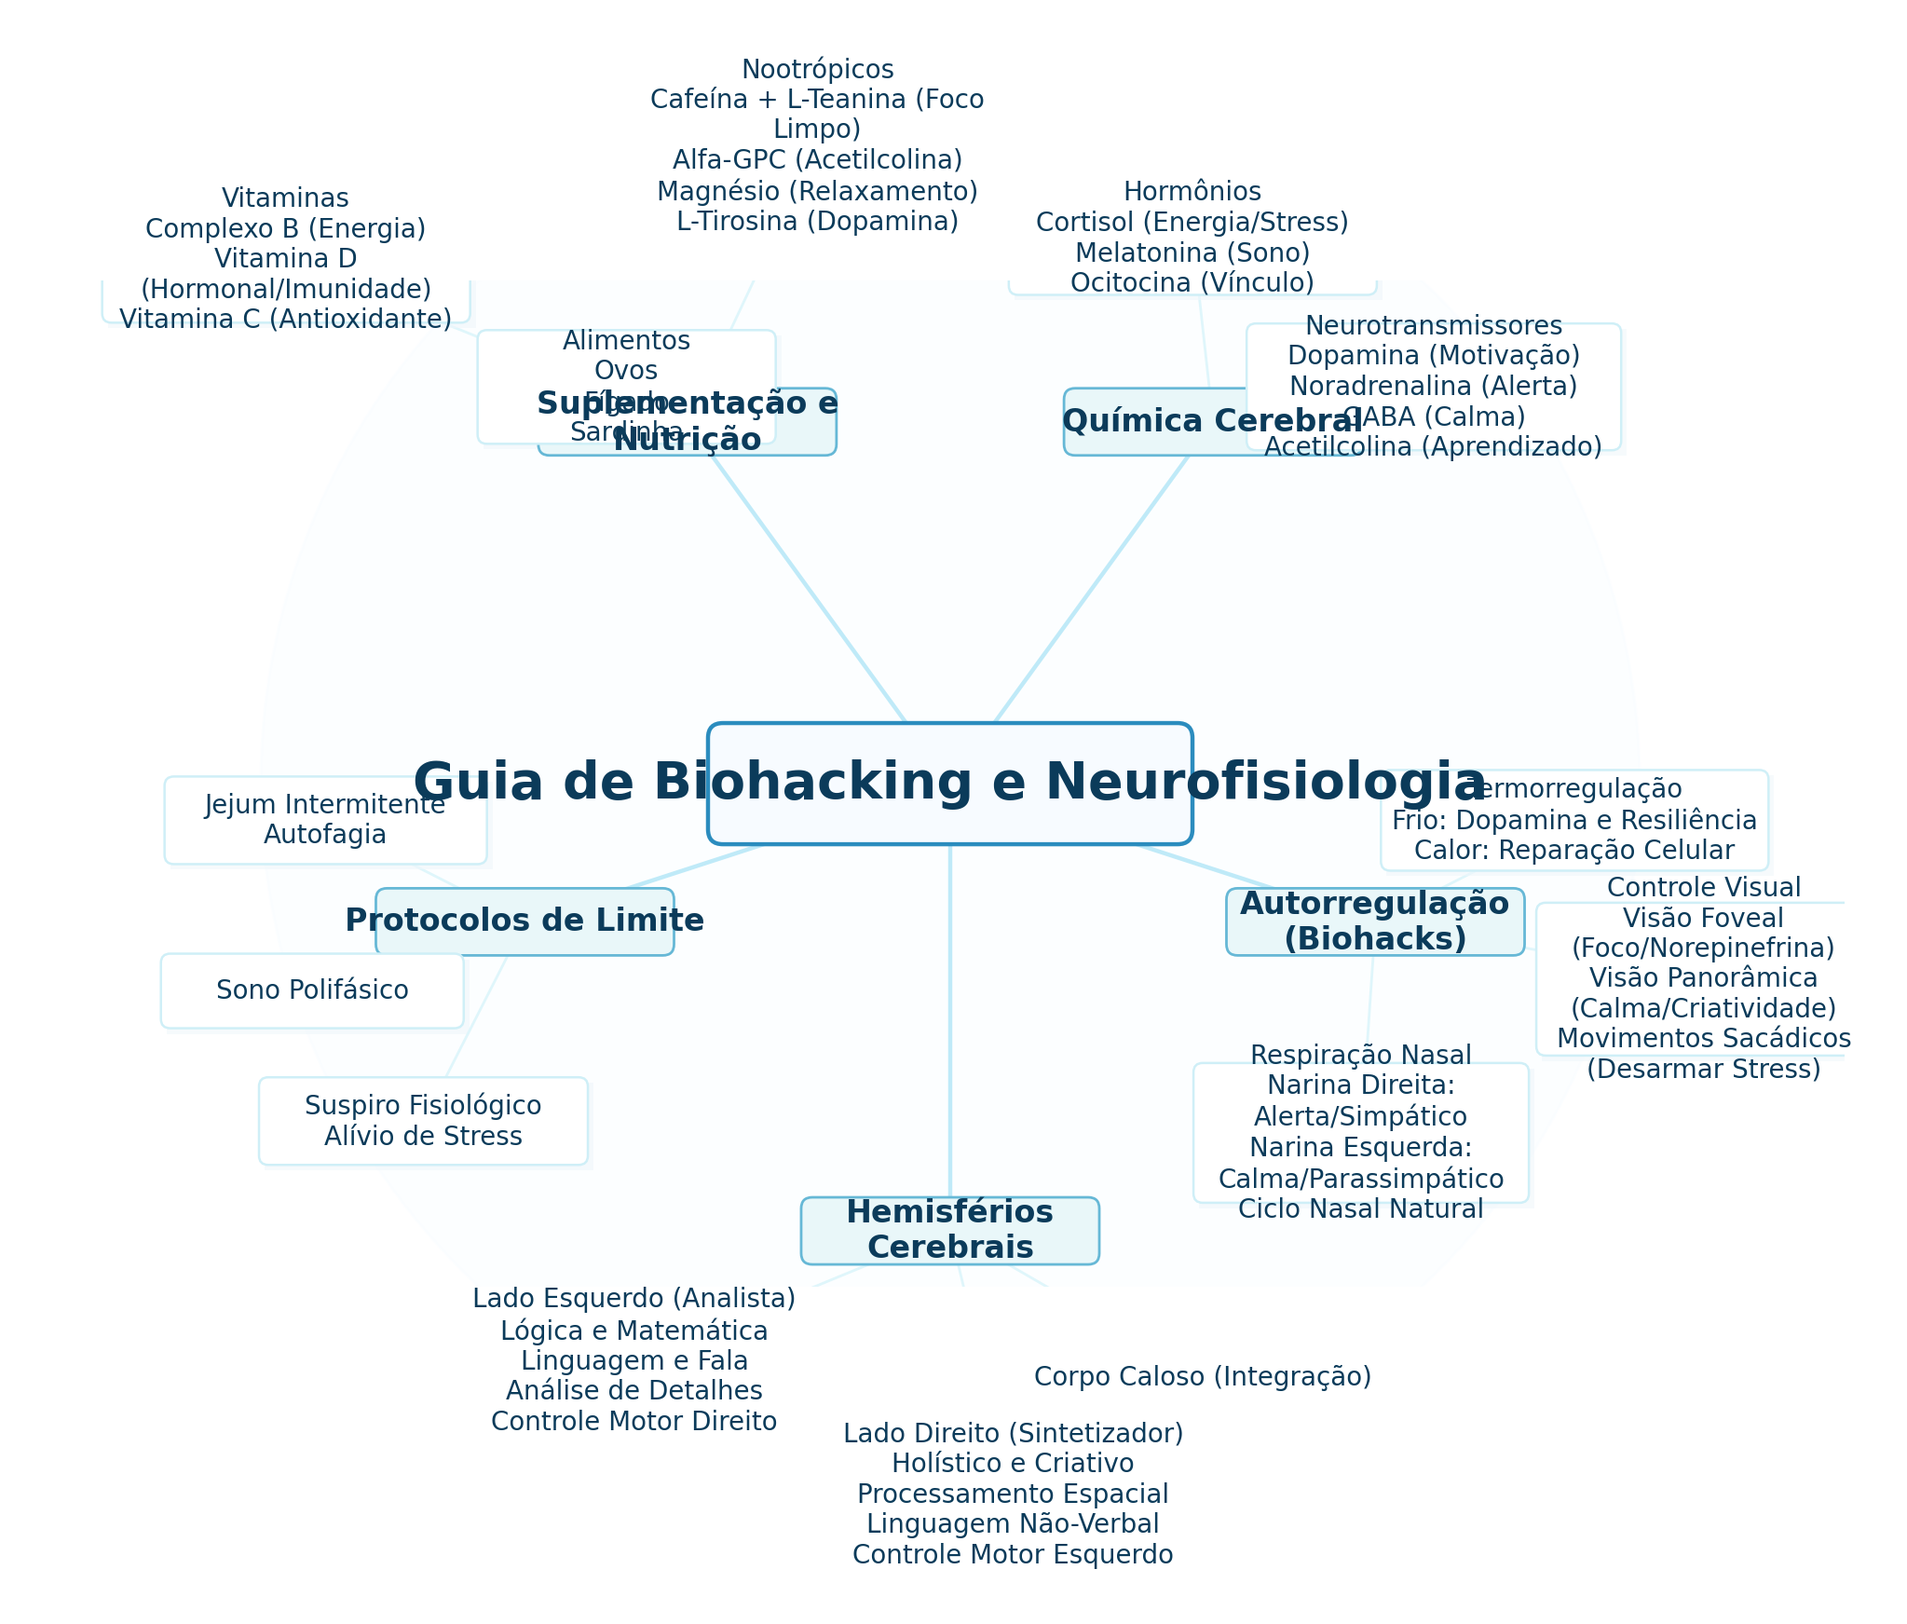
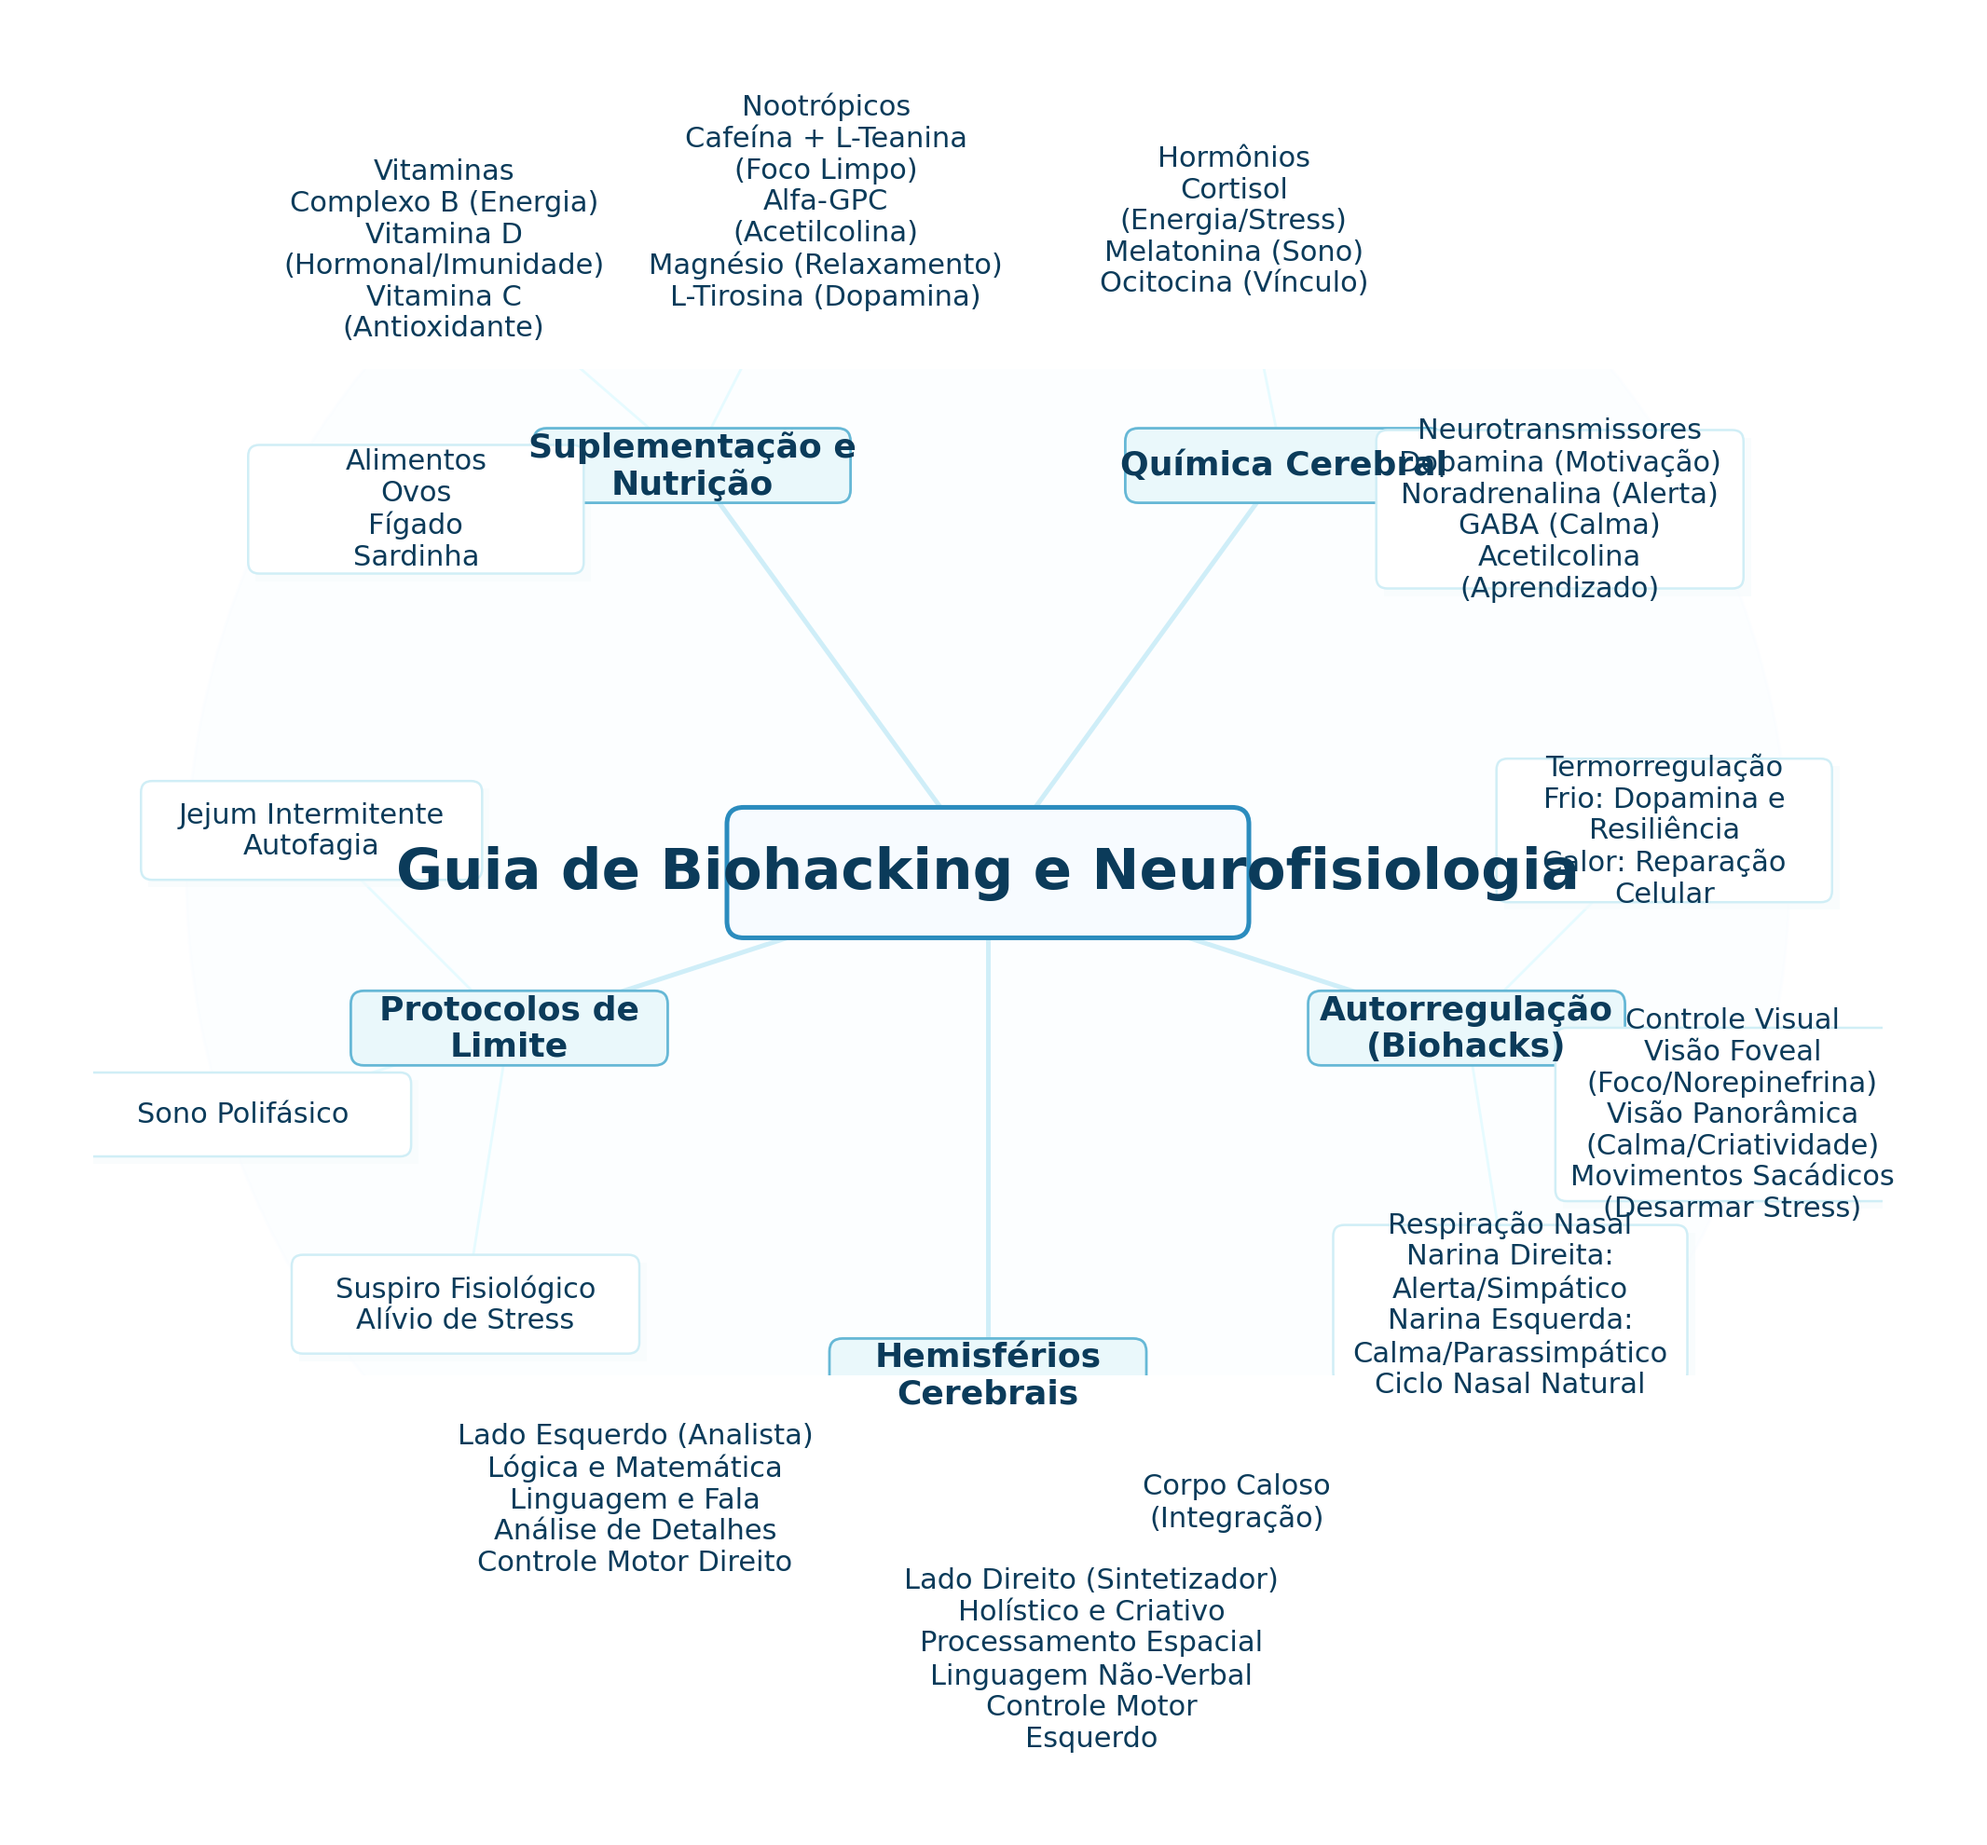
mindmap

diff --git a/generate_mindmap.py b/generate_mindmap.py
@@ -1,4 +1,4 @@
-# save as generate_mindmap_svg.py
+# generate_mindmap_spaced.py
 # Requisitos: pip install matplotlib numpy pillow
 import math, textwrap
 from pathlib import Path
@@ -6,14 +6,11 @@ import matplotlib.pyplot as plt
 from matplotlib.patches import FancyBboxPatch, Rectangle
 import numpy as np
 
-# --- Configuração de saída
-OUT_SVG = Path("mindmap.svg")
 OUT_PNG = Path("mindmap.png")
 W, H = 1920, 1080
 DPI = 200
 FONT_FAMILY = "DejaVu Sans"
 
-# --- Conteúdo do mapa (use sua estrutura)
 center = "Guia de Biohacking e Neurofisiologia"
 branches = {
     "Hemisférios Cerebrais": [
@@ -42,8 +39,7 @@ branches = {
     ]
 }
 
-# --- Helpers
-def wrap_label(title, subtitle="", width_chars=26):
+def wrap_label(title, subtitle="", width_chars=20):
     if subtitle:
         parts = [p.strip() for p in subtitle.split(";") if p.strip()]
         wrapped_parts = [textwrap.fill(p, width_chars) for p in parts]
@@ -52,7 +48,7 @@ def wrap_label(title, subtitle="", width_chars=26):
     else:
         return textwrap.fill(title, width_chars)
 
-# --- Layout inicial
+# Canvas
 fig = plt.figure(figsize=(W/DPI, H/DPI), dpi=DPI)
 ax = fig.add_axes([0,0,1,1])
 ax.set_xlim(0, W)
@@ -60,48 +56,44 @@ ax.set_ylim(0, H)
 ax.axis("off")
 cx, cy = W/2, H/2
 
-# center node
-center_w, center_h = 520, 130
-center_patch = FancyBboxPatch((cx-center_w/2, cy-center_h/2), center_w, center_h,
-                             boxstyle="round,pad=0.02,rounding_size=16",
-                             linewidth=1.6, facecolor="#f7fbff", edgecolor="#2b8cbe", zorder=5)
-ax.add_patch(center_patch)
+# Center node (bigger)
+center_w, center_h = 560, 140
+ax.add_patch(FancyBboxPatch((cx-center_w/2, cy-center_h/2), center_w, center_h,
+                           boxstyle="round,pad=0.02,rounding_size=18",
+                           linewidth=1.8, facecolor="#f7fbff", edgecolor="#2b8cbe", zorder=6))
 ax.text(cx, cy, center, ha="center", va="center",
-        fontdict={"family":FONT_FAMILY,"size":20,"weight":"bold"}, color="#0b3b5a", zorder=6)
+        fontdict={"family":FONT_FAMILY,"size":22,"weight":"bold"}, color="#0b3b5a", zorder=7)
 
-# parameters
+# Layout params increased for spacing
 n_branches = len(branches)
 angle_step = 2*math.pi / n_branches
 start_angle = -math.pi/2
-RADIUS = 480
-branch_box_w, branch_box_h = 320, 72
-sub_radius = 240
-sub_box_base_w, sub_box_base_h = 320, 80
+RADIUS = 540            # increased
+branch_box_w, branch_box_h = 340, 80
+sub_radius = 300        # increased
+sub_box_base_w, sub_box_base_h = 360, 90
 
-# collect subnode metadata for overlap resolution
-subnodes = []  # list of dicts: {pos:(x,y), w, h, text, anchor}
-
+subnodes = []
 for i, (bname, items) in enumerate(branches.items()):
     angle = start_angle + i*angle_step
     bx = cx + math.cos(angle)*RADIUS
     by = cy + math.sin(angle)*RADIUS
 
     # branch label
-    branch_label = wrap_label(bname, "", width_chars=20)
-    branch_patch = FancyBboxPatch((bx-branch_box_w/2, by-branch_box_h/2), branch_box_w, branch_box_h,
-                                 boxstyle="round,pad=0.02,rounding_size=12",
-                                 linewidth=1.0, facecolor="#e9f7f9", edgecolor="#66b8d6", zorder=4)
-    ax.add_patch(branch_patch)
+    branch_label = wrap_label(bname, "", width_chars=18)
+    ax.add_patch(FancyBboxPatch((bx-branch_box_w/2, by-branch_box_h/2), branch_box_w, branch_box_h,
+                               boxstyle="round,pad=0.02,rounding_size=14",
+                               linewidth=1.0, facecolor="#eaf8fb", edgecolor="#66b8d6", zorder=4))
     ax.text(bx, by, branch_label, ha="center", va="center",
-            fontdict={"family":FONT_FAMILY,"size":12,"weight":"semibold"}, color="#0b3b5a", zorder=5)
+            fontdict={"family":FONT_FAMILY,"size":13,"weight":"semibold"}, color="#0b3b5a", zorder=5)
 
     # curved connector
     midx = cx + math.cos(angle)*(RADIUS*0.45)
     midy = cy + math.sin(angle)*(RADIUS*0.45)
-    ax.plot([cx, midx, bx], [cy, midy, by], color="#bfeaf8", linewidth=1.6, zorder=2)
+    ax.plot([cx, midx, bx], [cy, midy, by], color="#cfeef8", linewidth=1.8, zorder=2)
 
     sub_count = len(items)
-    arc_span = math.pi*0.5
+    arc_span = math.pi * 0.7   # wider arc for better spread
     for j, (title, subtitle) in enumerate(items):
         if sub_count == 1:
             sub_angle = angle
@@ -110,15 +102,15 @@ for i, (bname, items) in enumerate(branches.items()):
         sx = bx + math.cos(sub_angle)*sub_radius
         sy = by + math.sin(sub_angle)*sub_radius
 
-        label_text = wrap_label(title, subtitle, width_chars=28)
+        label_text = wrap_label(title, subtitle, width_chars=22)
         lines = label_text.count("\n") + 1
-        sw = max(sub_box_base_w, 220 + 7*max(len(line) for line in label_text.split("\n")))
-        sh = sub_box_base_h + (lines-1)*14
+        sw = max(sub_box_base_w, 240 + 7*max(len(line) for line in label_text.split("\n")))
+        sh = sub_box_base_h + (lines-1)*16  # more vertical padding
 
-        subnodes.append({"pos":[sx, sy], "w":sw, "h":sh, "text":label_text, "anchor":(bx,by)})
+        subnodes.append({"pos":[sx, sy], "w":sw, "h":sh, "text":label_text, "anchor":[bx,by]})
 
-# --- Overlap resolution (repulsive)
-def resolve_positions(nodes, iterations=120, min_gap=8):
+# stronger overlap resolution
+def resolve_positions(nodes, iterations=200, min_gap=12, push_factor=0.7):
     pts = np.array([n["pos"] for n in nodes], dtype=float)
     w = np.array([n["w"] for n in nodes], dtype=float)
     h = np.array([n["h"] for n in nodes], dtype=float)
@@ -132,47 +124,38 @@ def resolve_positions(nodes, iterations=120, min_gap=8):
                 overlap_y = (h[i]+h[j])/2 + min_gap - abs(dy)
                 if overlap_x > 0 and overlap_y > 0:
                     moved = True
-                    # normalize push vector
                     if dx == 0 and dy == 0:
                         dx = (np.random.rand()-0.5)*1e-3
                         dy = (np.random.rand()-0.5)*1e-3
                     dist = math.hypot(dx, dy)
                     ux, uy = dx/dist, dy/dist
-                    push = 0.5 * np.array([ux*overlap_x, uy*overlap_y])
+                    push = push_factor * np.array([ux*overlap_x, uy*overlap_y])
                     pts[i] += push
                     pts[j] -= push
         if not moved:
             break
-    # write back
     for k, p in enumerate(pts):
         nodes[k]["pos"] = [float(p[0]), float(p[1])]
     return nodes
 
-subnodes = resolve_positions(subnodes, iterations=120)
+subnodes = resolve_positions(subnodes, iterations=200, min_gap=12, push_factor=0.8)
 
-# --- Draw subnodes and connectors after positions resolved
+# draw subnodes after resolving
 for n in subnodes:
     sx, sy = n["pos"]
     sw, sh = n["w"], n["h"]
     bx, by = n["anchor"]
-    # connector
-    ax.plot([bx, sx], [by, sy], color="#dff6fb", linewidth=1.0, zorder=2)
-    # shadow
-    shadow = Rectangle((sx-sw/2+6, sy-sh/2-6), sw, sh, linewidth=0, facecolor="#f0f7fb", alpha=0.6, zorder=2)
-    ax.add_patch(shadow)
-    # box
-    sub_patch = FancyBboxPatch((sx-sw/2, sy-sh/2), sw, sh,
-                              boxstyle="round,pad=0.02,rounding_size=10",
-                              linewidth=0.9, facecolor="#ffffff", edgecolor="#cfeff7", zorder=4)
-    ax.add_patch(sub_patch)
+    ax.plot([bx, sx], [by, sy], color="#e6fbff", linewidth=1.0, zorder=2)
+    ax.add_patch(Rectangle((sx-sw/2+8, sy-sh/2-8), sw, sh, linewidth=0, facecolor="#f6fbfd", alpha=0.6, zorder=2))
+    ax.add_patch(FancyBboxPatch((sx-sw/2, sy-sh/2), sw, sh,
+                               boxstyle="round,pad=0.02,rounding_size=12",
+                               linewidth=0.9, facecolor="#ffffff", edgecolor="#d0eef6", zorder=4))
     ax.text(sx, sy, n["text"], ha="center", va="center",
-            fontdict={"family":FONT_FAMILY,"size":10}, color="#0b3b5a", zorder=5)
+            fontdict={"family":FONT_FAMILY,"size":11}, color="#0b3b5a", zorder=5)
 
 # background accent
-ax.add_patch(plt.Circle((cx, cy), RADIUS+260, color="#f3fbff", alpha=0.22, zorder=0))
+ax.add_patch(plt.Circle((cx, cy), RADIUS+320, color="#f3fbff", alpha=0.18, zorder=0))
 
-# --- Save SVG and PNG
-plt.savefig(OUT_SVG, dpi=DPI, bbox_inches="tight", pad_inches=0.3, format="svg")
-plt.savefig(OUT_PNG, dpi=DPI, bbox_inches="tight", pad_inches=0.3)
+plt.savefig(OUT_PNG, dpi=DPI, bbox_inches="tight", pad_inches=0.5)
 plt.close(fig)
-print("Saved:", OUT_SVG.resolve(), OUT_PNG.resolve())
+print("Saved:", OUT_PNG.resolve())
